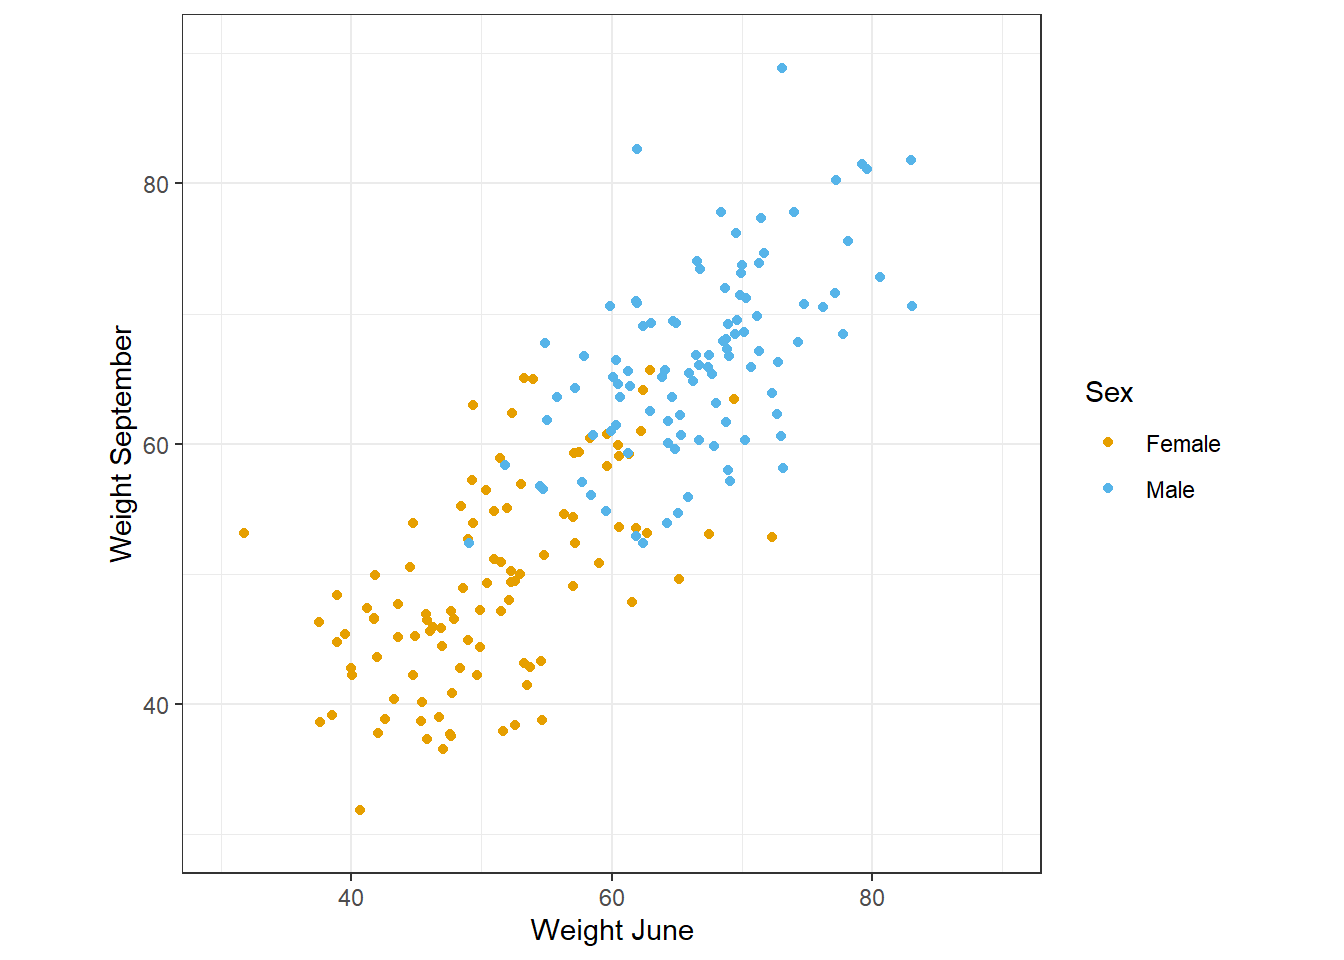
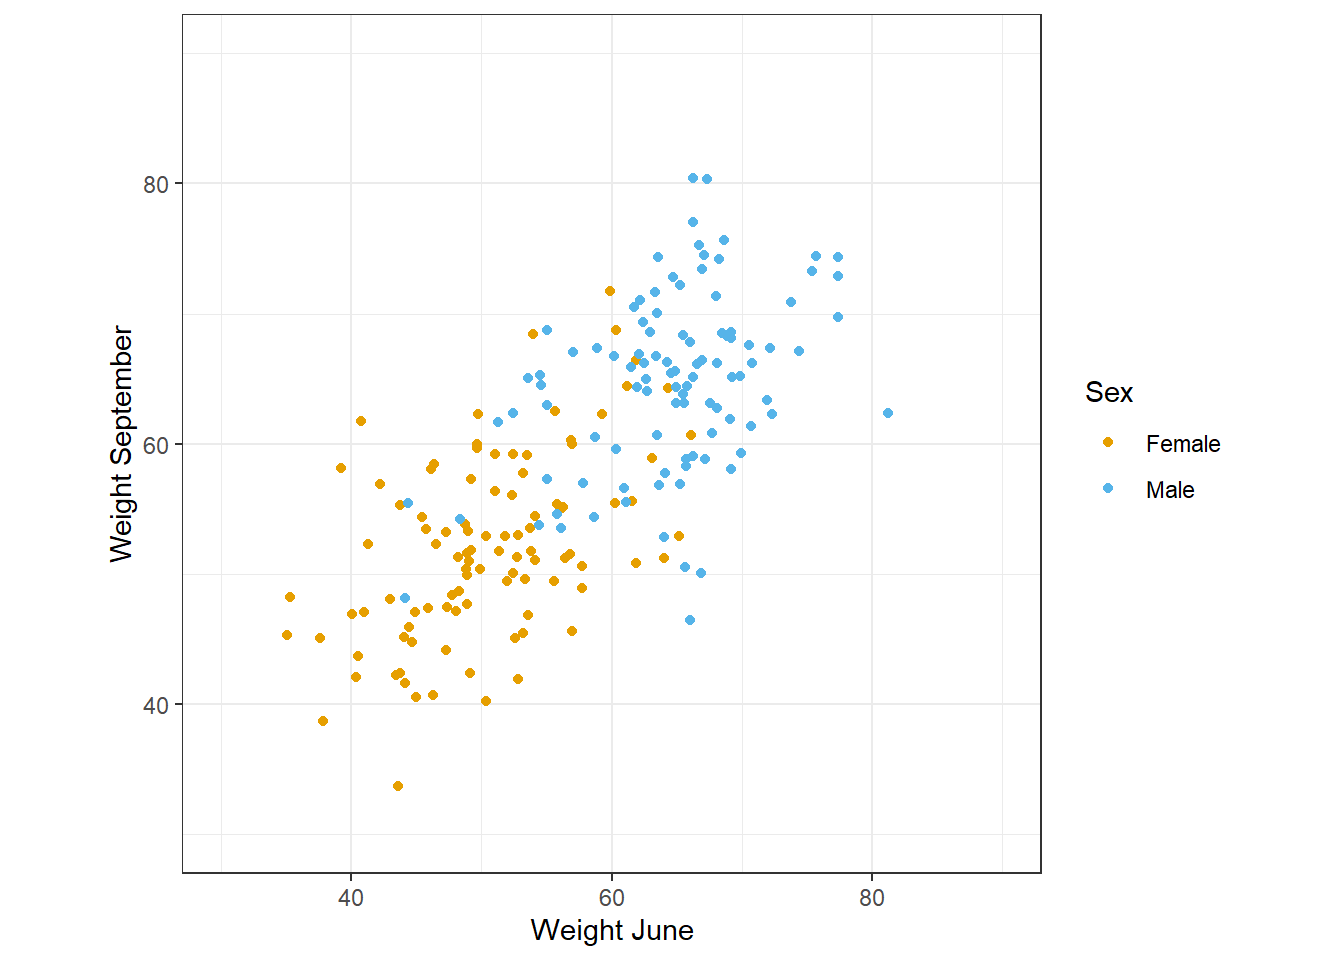
v1.2

diff --git a/content/english/post/2022-12-04-lords2/index.en.md b/content/english/post/2022-12-04-lords2/index.en.md
@@ -27,18 +27,16 @@ The data may look like this:
 
 
 
-
-```r
-library(ggplot2)
-ggplot(bd,aes(x=W1,y=W2,color=factor(sex))) + geom_point() +
-scale_color_manual(values=c("#E69F00", "#56B4E9")) +
-coord_fixed(xlim=c(30,90),ylim=c(30,90))  + theme(aspect.ratio=1) + theme_bw() + labs(x="Weight June",y="Weight September",color="Sex")
-```
-
 <div class="figure">
 <img src="{{< blogdown/postref >}}index.en_files/figure-html/f1-1.png" alt="Weight by group and period" width="672" />
 <p class="caption">Figure 1: Weight by group and period</p>
 </div>
 
-The average and variance for each group are the same in both periods.
+
+<div class="figure">
+<img src="{{< blogdown/postref >}}index.en_files/figure-html/f2-1.png" alt="Weight distribution by group and period" width="672" />
+<p class="caption">Figure 2: Weight distribution by group and period</p>
+</div>
+
+The average and variance for each group are essentially the same in both periods.
 
